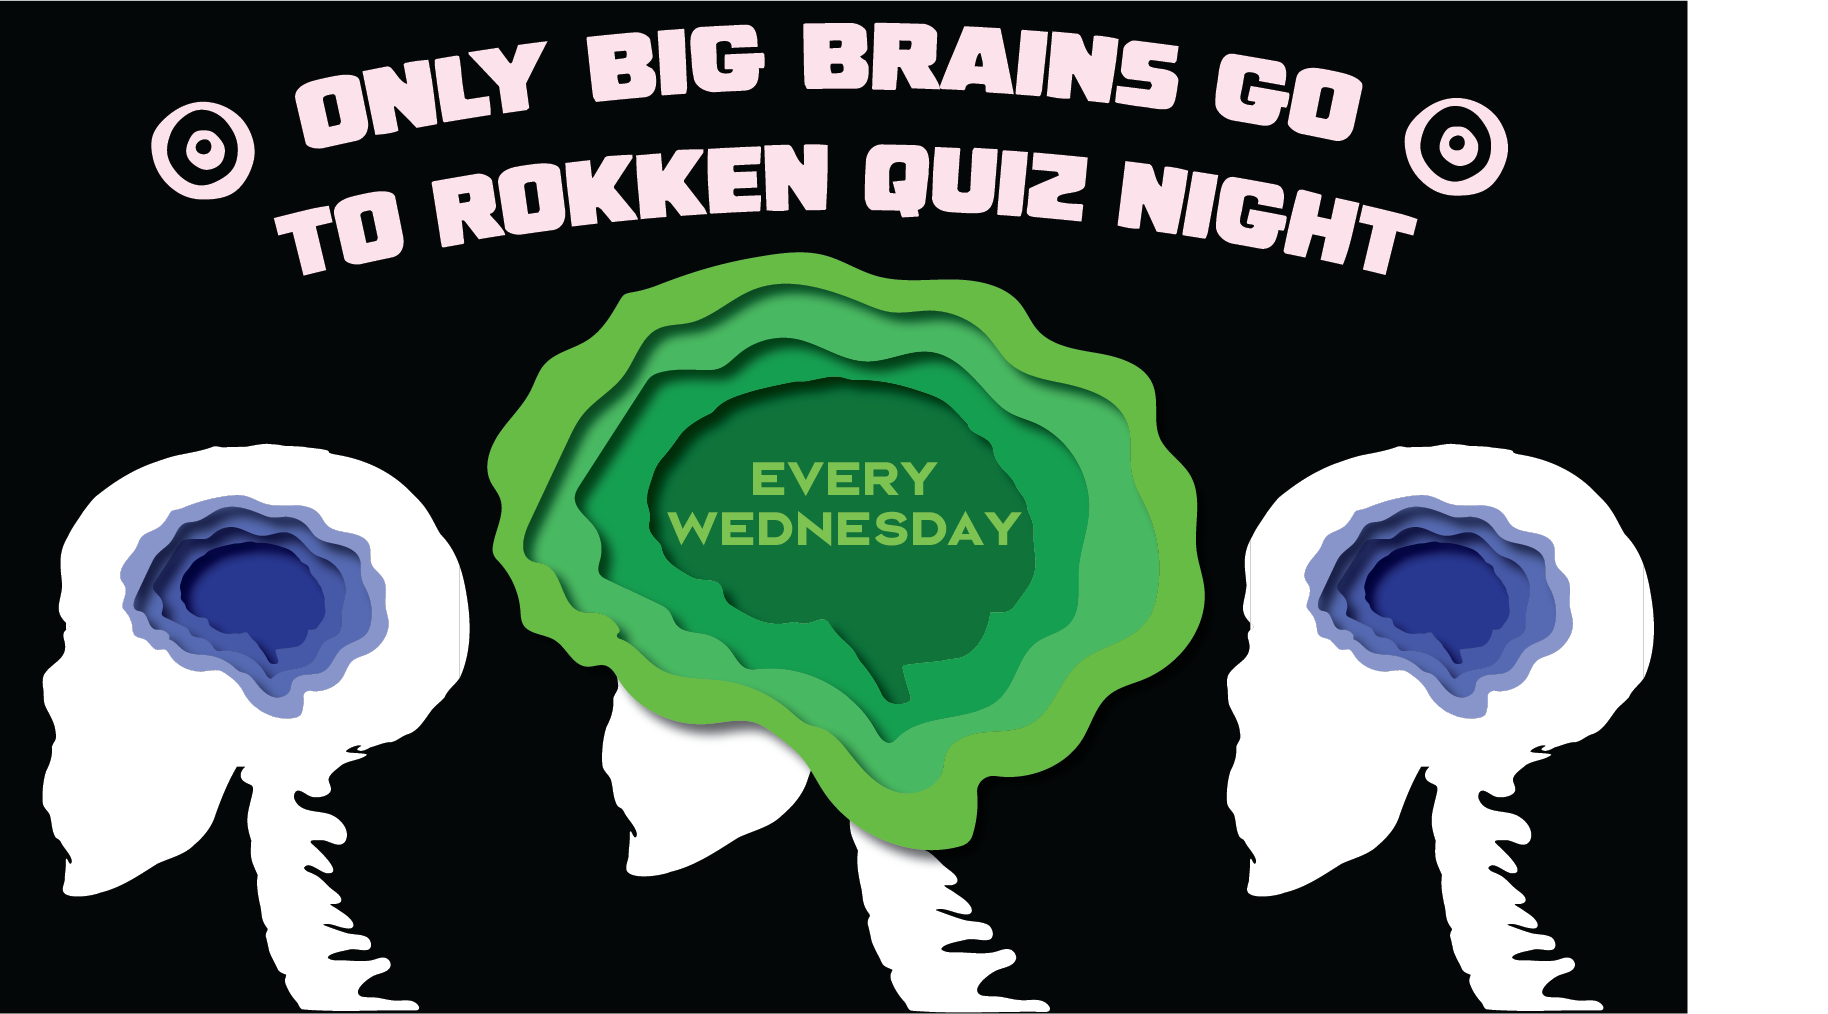
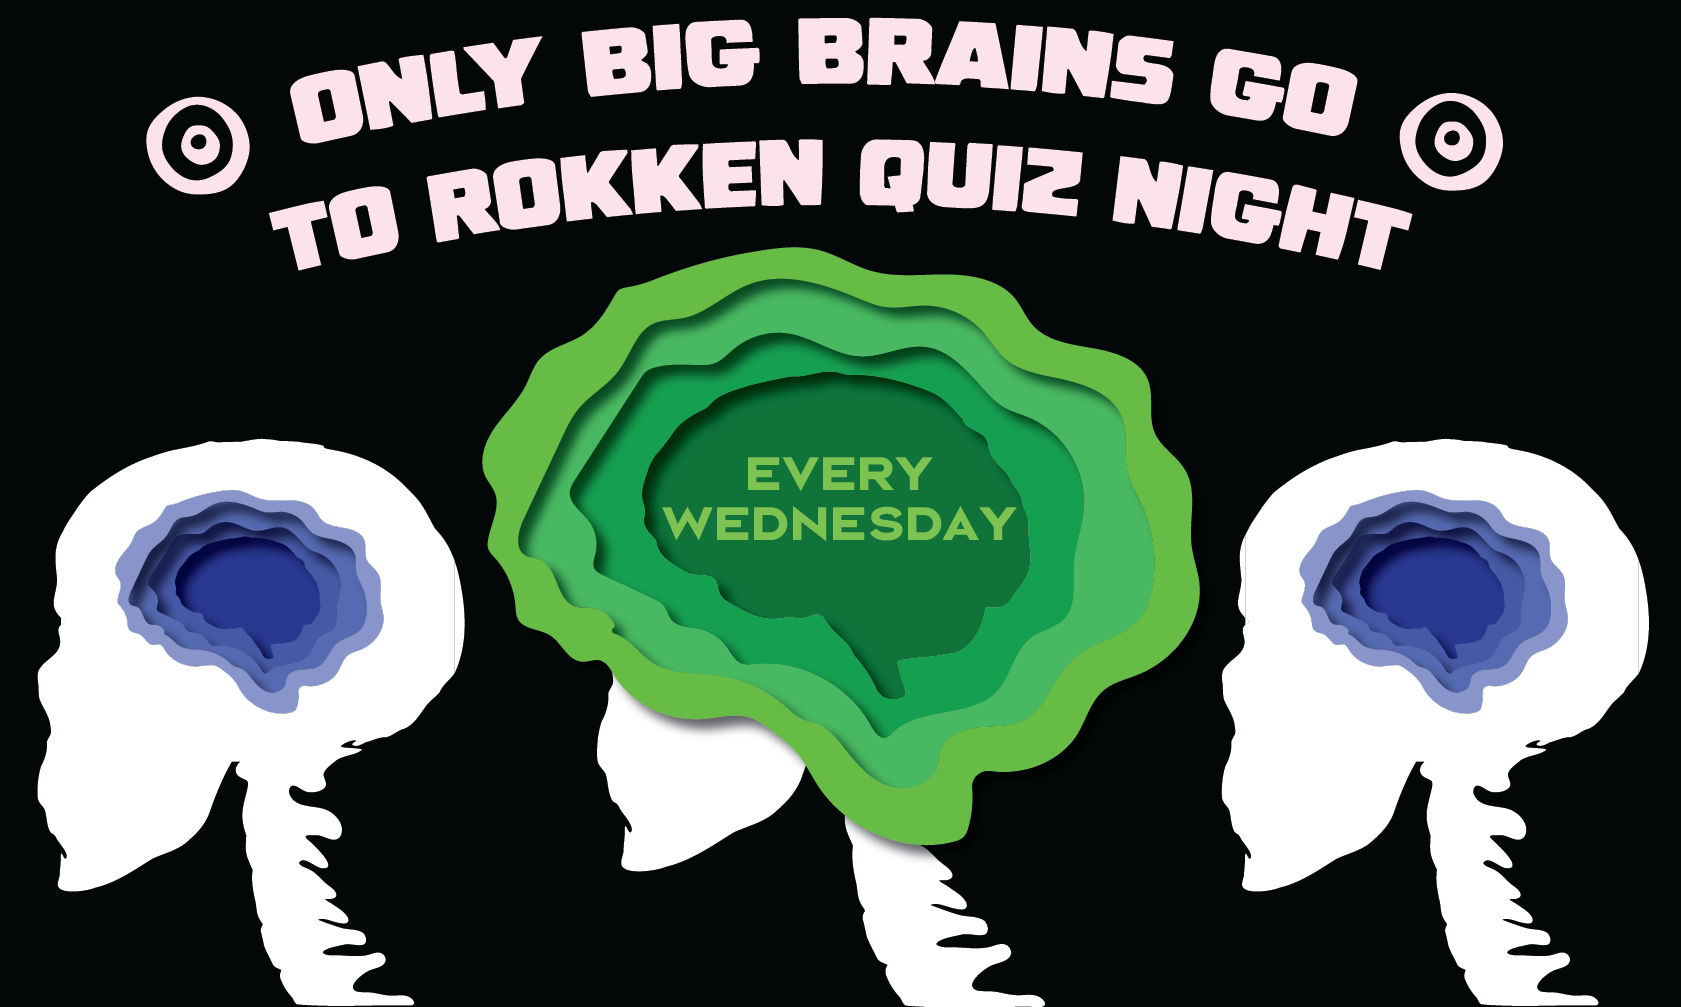
july 2nd

diff --git a/design.html b/design.html
@@ -41,7 +41,7 @@
       <div class="two-page-layout">
         <div class="page-content">
             <!-- Another Left page content -->
-            <img src="./ROKKEN QUIZ AD.png" alt="A page">
+            <img src="./ROKKEN QUIZ AD.jpg" alt="A page">
             <p>Rokken Media Post Mockup</p>
         </div>
       </div>

diff --git a/index.html b/index.html
@@ -34,7 +34,7 @@
 <br>
 <div class="page-break"></div>
   <a href="./photo.html">
-    <img src="./photocover.png" alt="A clickable image">
+    <img src="./photocover.jpg" alt="A clickable image">
     <p> Image // Project Library </p>
   </a>
   <br>
